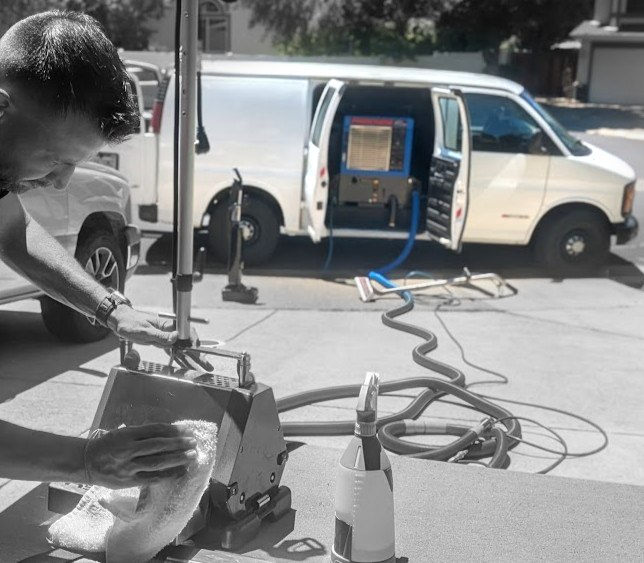
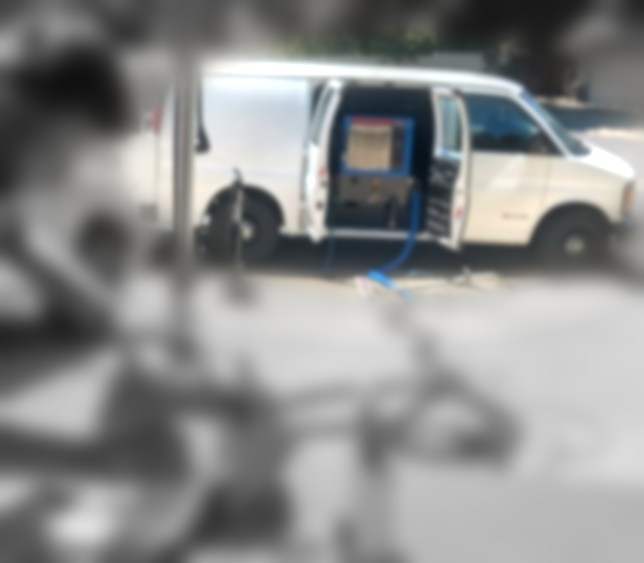
B2B login: van lightly blurred with a glow, rest heavily blurred gray
Claude-Session: https://claude.ai/code/session_01M9tpaeTxS9wD549LhT7yDw

diff --git a/inHouseEstimator/b2b-login.html b/inHouseEstimator/b2b-login.html
@@ -21,9 +21,10 @@ body{ margin:0; min-height:100svh; display:grid; place-items:center;
 /* Background photo (images/back ground.jpg): heavily blurred, black and white, 25% visible (75% clear)
    over the navy, fixed behind everything. inset is negative so the blur doesn't leave soft edges. */
 body::before{ content:""; position:fixed; inset:-60px; z-index:-1; pointer-events:none;
-  /* "back ground van.jpg": same photo, gray except the van, which is in color and 20% brighter. */
-  background:url("../images/back%20ground%20van.jpg") center / cover no-repeat;
-  filter:blur(18px); opacity:.4; }
+  /* "back ground van.jpg": the blur is baked in. Everything heavily blurred and gray, except the van:
+     light blur, in color, 20% brighter, with a soft glow around it. Only a touch more blur here. */
+  background:url("../images/back%20ground%20van.jpg?v=2") center / cover no-repeat;
+  filter:blur(2px); opacity:.45; }
 .box{ width:100%; max-width:380px; text-align:center; }
 /* Big logo: 10x the old 64px, capped to the screen width on phones, centered even when wider than the form. */
 .box .logo{ display:block; width:min(640px, 90vw); height:auto; position:relative; left:50%; transform:translateX(-50%);
